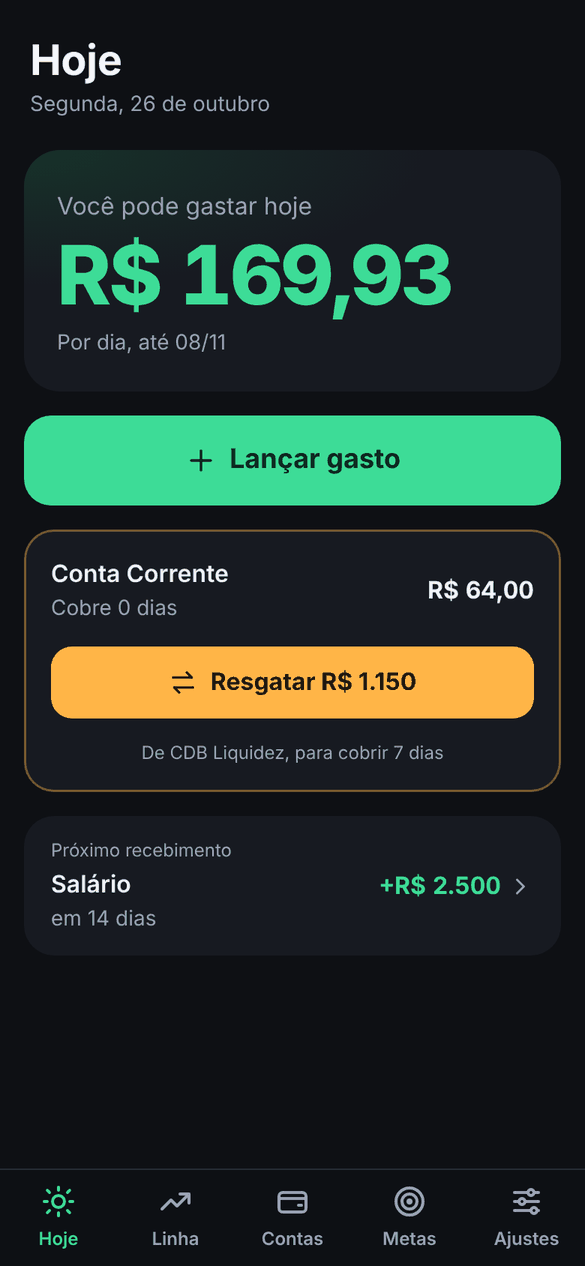
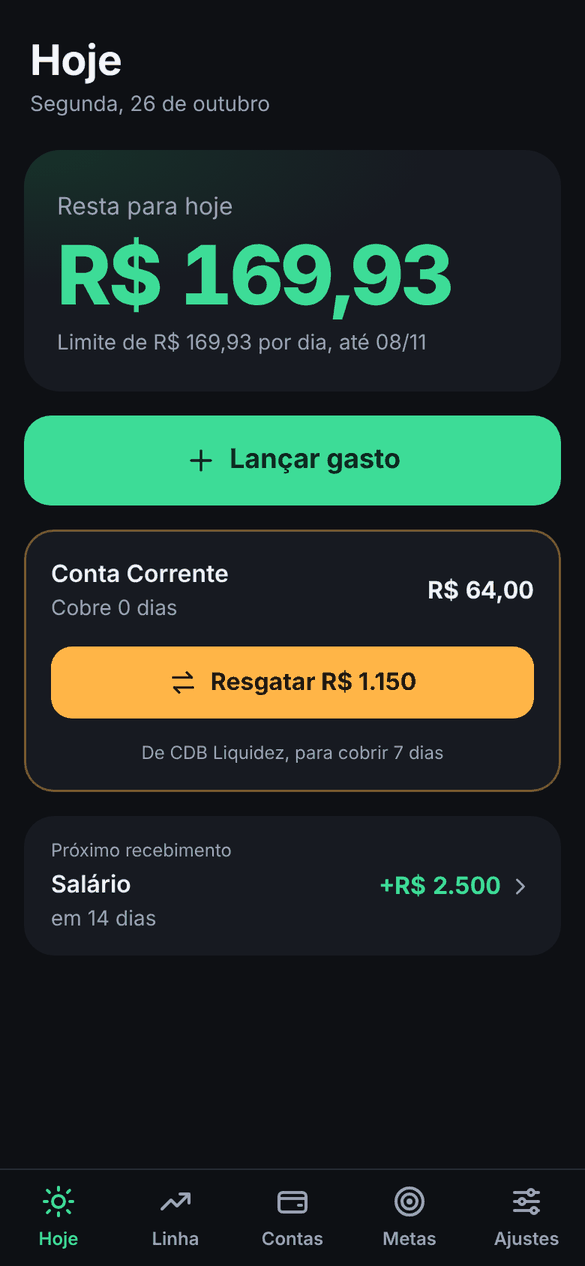
Destaca quanto resta no dia e permite nomear e renomear gastos
- Tela Hoje: o número em destaque passa a ser "Resta para hoje"; o
  limite diário fica logo abaixo. Ao passar do limite, o destaque fica
  vermelho como "Passou do limite hoje".
- Gastos: o campo vira "Nome do gasto", com sugestões dos nomes já
  usados. Tocar num gasto (em Hoje ou nas movimentações) abre uma ficha
  para renomear ou excluir.
- README e capturas atualizados.

Claude-Session: https://claude.ai/code/session_0186iczoG9P2cLLKZmU5Qanj

diff --git a/app/js/ui/screens/today.js b/app/js/ui/screens/today.js
@@ -1,10 +1,10 @@
-import { h, toast, sheet } from '../dom.js';
+import { h } from '../dom.js';
 import { icon } from '../icons.js';
 import * as store from '../../data/store.js';
 import { formatBRL, formatBRLShort } from '../../core/money.js';
 import { formatHeader, formatShort, relative, addDays, TIME_ZONE } from '../../core/dates.js';
 import { openEvents, pendingConfirmations } from '../../core/schedule.js';
-import { confirmOccurrenceSheet, transferSheet, eventSheet } from '../editors.js';
+import { confirmOccurrenceSheet, transferSheet, eventSheet, transactionSheet } from '../editors.js';
 import { backupBanner } from '../backup.js';
 
 const ASK = { income: 'Recebeu?', expense: 'Pagou?', contribution: 'Aportou?' };
@@ -42,20 +42,19 @@ function pendingCard(ctx) {
 function hero(ctx) {
   const { dailyBudget, remainingToday, spentToday, horizonEnd, limitingDay } = ctx.budget;
   const pct = dailyBudget > 0 ? Math.min(100, Math.max(0, (spentToday / dailyBudget) * 100)) : 100;
-  const spent = spentToday > 0;
-  return h('section', { class: 'hero', 'aria-label': 'Orçamento de hoje' },
-    h('p', { class: 'hero-label' }, 'Você pode gastar hoje'),
-    h('p', { class: `hero-value ${dailyBudget < 0 ? 'neg' : ''}`, 'data-fit': true }, formatBRL(dailyBudget)),
-    h('p', { class: 'hero-meta' }, `Por dia, até ${formatShort(horizonEnd)}`),
-    spent && h('div', { class: 'meter', role: 'progressbar', 'aria-label': 'Quanto já gastou hoje', 'aria-valuenow': Math.round(pct), 'aria-valuemin': 0, 'aria-valuemax': 100 },
-      h('span', { style: `width:${pct}%`, class: remainingToday < 0 ? 'over' : '' })),
-    spent && h('div', { class: 'hero-foot' },
-      h('div', {}, h('p', { class: 'k' }, 'Gasto'), h('p', { class: 'v', 'data-fit': true }, formatBRL(spentToday))),
-      h('div', { style: 'text-align:right' },
-        h('p', { class: 'k' }, remainingToday < 0 ? 'Passou' : 'Restante'),
-        h('p', { class: `v ${remainingToday < 0 ? 'neg' : 'pos'}`, 'data-fit': true }, formatBRL(Math.abs(remainingToday))))),
-    dailyBudget < 0 && h('p', { class: 'hero-meta neg', style: 'margin-top:8px' },
-      `As contas até ${formatShort(limitingDay)} passam do que você tem.`));
+  const noRoom = dailyBudget < 0; // as contas já passam do dinheiro disponível
+  const over = !noRoom && remainingToday < 0;
+  const label = noRoom ? 'Sem folga hoje' : over ? 'Passou do limite hoje' : 'Resta para hoje';
+  const value = over ? -remainingToday : remainingToday;
+  return h('section', { class: 'hero', 'aria-label': 'Quanto resta para hoje' },
+    h('p', { class: 'hero-label' }, label),
+    h('p', { class: `hero-value ${noRoom || over ? 'neg' : ''}`, 'data-fit': true }, formatBRL(value)),
+    h('p', { class: 'hero-meta' }, noRoom
+      ? `As contas até ${formatShort(limitingDay)} passam do que você tem.`
+      : `Limite de ${formatBRL(dailyBudget)} por dia, até ${formatShort(horizonEnd)}`),
+    spentToday > 0 && h('div', { class: 'meter', role: 'progressbar', 'aria-label': 'Quanto do limite já foi gasto', 'aria-valuenow': Math.round(pct), 'aria-valuemin': 0, 'aria-valuemax': 100 },
+      h('span', { style: `width:${pct}%`, class: over || noRoom ? 'over' : '' })),
+    spentToday > 0 && h('p', { class: 'hero-meta', style: 'margin-top:8px' }, `${formatBRL(spentToday)} gastos hoje`));
 }
 
 function coverageCard(ctx) {
@@ -100,18 +99,6 @@ function nextIncome(ctx) {
         icon('chevron', { size: 18, cls: 'chev' }))));
 }
 
-function spendSheet(t) {
-  sheet(t.desc || 'Gasto', (close) => [
-    h('p', { class: 'sheet-lead' }, `${formatBRL(t.amount)} às ${timeFmt.format(new Date(t.createdAt))}, de ${store.getAccount(t.from)?.name ?? 'conta excluída'}.`),
-    h('div', { class: 'form-actions' },
-      h('button', { class: 'btn grow', onclick: close }, 'Fechar'),
-      h('button', {
-        class: 'btn danger grow',
-        onclick: () => { store.deleteTransaction(t.id); close(); toast('Gasto excluído'); },
-      }, 'Excluir gasto')),
-  ]);
-}
-
 function todaySpends(ctx) {
   const list = ctx.state.transactions.filter((t) => t.type === 'spend' && t.date === ctx.today).reverse();
   if (!list.length) return null;
@@ -120,9 +107,9 @@ function todaySpends(ctx) {
     h('h2', { class: 'section-label' }, 'Gastos de hoje'),
     h('section', { class: 'card flush' },
       h('ul', { class: 'list' }, list.map((t) => h('li', {},
-        h('button', { class: 'list-item', onclick: () => spendSheet(t) },
+        h('button', { class: 'list-item', onclick: () => transactionSheet(t) },
           h('span', { class: 'li-main' },
-            h('span', { class: 'li-title' }, t.desc || 'Gasto'),
+            h('span', { class: `li-title ${t.desc ? '' : 'muted'}` }, t.desc || 'Sem nome'),
             h('span', { class: 'li-sub' }, [t.createdAt && timeFmt.format(new Date(t.createdAt)), t.from !== def && store.getAccount(t.from)?.name].filter(Boolean).join(', '))),
           h('span', { class: 'li-value' }, formatBRL(t.amount))))))),
   ];

diff --git a/app/js/ui/editors.js b/app/js/ui/editors.js
@@ -5,7 +5,7 @@ import { h, sheet, toast, confirmDialog } from './dom.js';
 import { icon } from './icons.js';
 import * as store from '../data/store.js';
 import { formatBRL, formatBRLShort, parseBRL, toInput } from '../core/money.js';
-import { todayISO, formatFull, formatShort, formatDayMonth, isValidISO, addDays } from '../core/dates.js';
+import { todayISO, formatFull, formatShort, formatDayMonth, isValidISO, addDays, TIME_ZONE } from '../core/dates.js';
 import { MAX_MOVE_DAYS } from '../core/schedule.js';
 
 // ---------- campos ----------
@@ -516,4 +516,52 @@ function pickGoalThenContribution(state) {
   if (state.goals.length === 1) return editContribution(null, state.goals[0].id);
   sheet('Para qual meta?', () => h('ul', { class: 'list' },
     state.goals.map((g) => listItem(g.name, `Até ${formatFull(g.deadline)}`, null, () => editContribution(null, g.id)))));
+}
+
+// ---------- lançamentos: nome, renomear e excluir ----------
+
+export const TX_LABEL = {
+  spend: 'Gasto', transfer: 'Transferência', adjust: 'Ajuste de saldo', income: 'Receita', expense: 'Despesa fixa', contribution: 'Aporte',
+};
+const txTime = new Intl.DateTimeFormat('pt-BR', { hour: '2-digit', minute: '2-digit', timeZone: TIME_ZONE });
+
+/** <datalist> com os nomes de gastos já usados (sugestões ao digitar). */
+export function spendNameList(id) {
+  return h('datalist', { id }, store.recentSpendNames().map((n) => h('option', { value: n })));
+}
+
+/** Ficha de um lançamento: mostra valor e origem, permite renomear e excluir. */
+export function transactionSheet(t) {
+  const label = TX_LABEL[t.type] || 'Lançamento';
+  const isSpend = t.type === 'spend';
+  const listId = 'nomes-gastos-ficha';
+  const name = textInput(t.desc || '', {
+    placeholder: isSpend ? 'Ex.: Mercado, Almoço' : label, maxlength: store.NAME_MAX,
+    list: isSpend ? listId : null, enterkeyhint: 'done', 'data-noautofocus': '1',
+  });
+  const acc = (id) => store.getAccount(id)?.name ?? 'conta excluída';
+  const isMove = t.type === 'transfer' || t.type === 'contribution';
+  const where = isMove ? `de ${acc(t.from)} para ${acc(t.to)}` : t.from ? `de ${acc(t.from)}` : `em ${acc(t.to)}`;
+  const when = `${formatShort(t.date)}${t.createdAt && isSpend ? ` às ${txTime.format(new Date(t.createdAt))}` : ''}`;
+  sheet(t.desc || label, (close) => form(() => {
+    const next = name.value.trim();
+    if (next !== (t.desc || '')) {
+      store.renameTransaction(t.id, next);
+      toast(next ? 'Nome salvo' : 'Nome removido');
+    }
+    close();
+  },
+  h('div', { class: 'stat' },
+    h('span', { class: 'stat-label' }, `${when}, ${where}`),
+    h('span', { class: 'stat-value', style: 'font-size:1.75rem', 'data-fit': true }, formatBRL(Math.abs(t.amount)))),
+  field('Nome', name),
+  isSpend && spendNameList(listId),
+  actions(async () => {
+    const title = isSpend ? 'Excluir gasto?' : 'Excluir movimentação?';
+    const msg = isSpend ? 'O valor volta para o saldo da conta.' : 'Os saldos voltam ao que eram antes dela.';
+    if (await confirmDialog(title, msg, 'Excluir', true)) {
+      store.deleteTransaction(t.id);
+      toast(isSpend ? 'Gasto excluído' : 'Movimentação excluída');
+    }
+  })));
 }

diff --git a/app/js/ui/screens/accounts.js b/app/js/ui/screens/accounts.js
@@ -1,13 +1,9 @@
-import { h, sheet, toast, confirmDialog } from '../dom.js';
+import { h, sheet } from '../dom.js';
 import { icon } from '../icons.js';
 import * as store from '../../data/store.js';
 import { formatBRL } from '../../core/money.js';
 import { formatShort } from '../../core/dates.js';
-import { adjustSheet, transferSheet, addButton, editAccount, listItem } from '../editors.js';
-
-const TYPE_LABEL = {
-  spend: 'Gasto', transfer: 'Transferência', adjust: 'Ajuste de saldo', income: 'Receita', expense: 'Despesa fixa', contribution: 'Aporte',
-};
+import { adjustSheet, transferSheet, addButton, editAccount, listItem, transactionSheet, TX_LABEL } from '../editors.js';
 
 const HISTORY_LIMIT = 40;
 
@@ -40,23 +36,6 @@ function accountList(ctx, accounts) {
       h('span', { class: a.balance < 0 ? 'neg' : '' }, formatBRL(a.balance)), () => accountSheet(ctx, a)))));
 }
 
-function txSheet(t, title, detail) {
-  sheet(title, (close) => [
-    h('p', { class: 'sheet-lead' }, detail),
-    h('div', { class: 'form-actions' },
-      h('button', { class: 'btn grow', onclick: close }, 'Fechar'),
-      h('button', {
-        class: 'btn danger grow',
-        onclick: async () => {
-          if (await confirmDialog('Excluir movimentação?', 'Os saldos voltam ao que eram antes dela.', 'Excluir', true)) {
-            store.deleteTransaction(t.id);
-            toast('Movimentação excluída');
-          }
-        },
-      }, 'Excluir')),
-  ]);
-}
-
 function history(ctx) {
   const txs = [...ctx.state.transactions].reverse().slice(0, HISTORY_LIMIT);
   if (!txs.length) return null;
@@ -67,9 +46,9 @@ function history(ctx) {
       const isMove = t.type === 'transfer' || t.type === 'contribution';
       const credit = t.type === 'adjust' ? t.amount > 0 : !!t.to && !t.from;
       const value = isMove ? formatBRL(t.amount) : `${credit ? '+' : '−'}${formatBRL(Math.abs(t.amount))}`;
-      const title = t.desc || TYPE_LABEL[t.type];
+      const title = t.desc || TX_LABEL[t.type];
       const sub = isMove ? `${formatShort(t.date)}, ${name(t.from)} → ${name(t.to)}` : formatShort(t.date);
-      return h('li', {}, h('button', { class: 'list-item', onclick: () => txSheet(t, title, `${value} em ${formatShort(t.date)}. ${isMove ? `${name(t.from)} → ${name(t.to)}` : name(t.from || t.to)}.`) },
+      return h('li', {}, h('button', { class: 'list-item', onclick: () => transactionSheet(t) },
         h('span', { class: 'li-main' }, h('span', { class: 'li-title' }, title), h('span', { class: 'li-sub' }, sub)),
         h('span', { class: `li-value ${credit && !isMove ? 'pos' : ''}` }, value)));
     }))),

diff --git a/app/js/ui/screens/spend.js b/app/js/ui/screens/spend.js
@@ -1,4 +1,4 @@
-// Lançar gasto: teclado numérico grande, só o valor (descrição opcional).
+// Lançar gasto: teclado numérico grande, só o valor (nome opcional).
 
 import { h, toast, sheet, fitText } from '../dom.js';
 import { icon } from '../icons.js';
@@ -8,6 +8,7 @@ import { computeDailyBudget } from '../../core/budget.js';
 import { suggestRefill } from '../../core/refill.js';
 import { todayISO } from '../../core/dates.js';
 import { refillSheet } from './today.js';
+import { spendNameList } from '../editors.js';
 
 const MAX_DIGITS = 9;
 
@@ -38,7 +39,10 @@ export function renderSpend(ctx) {
 
   const display = h('p', { class: 'amount-display', 'aria-live': 'polite', 'data-fit': true });
   const hint = h('p', { class: 'amount-hint' });
-  const desc = h('input', { type: 'text', placeholder: 'Descrição (opcional)', maxlength: 60, autocomplete: 'off', 'aria-label': 'Descrição' });
+  const desc = h('input', {
+    type: 'text', placeholder: 'Nome do gasto (opcional)', maxlength: store.NAME_MAX, autocomplete: 'off',
+    autocapitalize: 'sentences', enterkeyhint: 'done', list: 'nomes-gastos', 'aria-label': 'Nome do gasto',
+  });
   const confirmBtn = h('button', { class: 'btn primary xl block', disabled: true, onclick: save });
 
   const cents = () => {
@@ -55,7 +59,7 @@ export function renderSpend(ctx) {
     confirmBtn.textContent = v > 0 ? `Lançar ${formatBRL(v)}` : 'Digite o valor';
     const left = ctx.budget.remainingToday - v;
     hint.textContent = v === 0
-      ? `Restante hoje: ${formatBRL(ctx.budget.remainingToday)}`
+      ? `Resta para hoje: ${formatBRL(ctx.budget.remainingToday)}`
       : left >= 0 ? `Sobram ${formatBRL(left)} hoje` : `Passa ${formatBRL(-left)} do limite de hoje`;
     hint.classList.toggle('neg', v > 0 && left < 0);
     if (display.isConnected) fitText(display.parentElement);
@@ -124,7 +128,8 @@ export function renderSpend(ctx) {
     h('div', { class: 'amount-area' }, display, hint),
     h('div', { class: 'spend-opts' },
       chips && h('div', { class: 'row gap' }, h('span', { class: 'chips-label' }, 'Sai de'), chips),
-      desc),
+      desc,
+      spendNameList('nomes-gastos')),
     pad,
     confirmBtn);
 }

diff --git a/tests/store.test.js b/tests/store.test.js
@@ -1,0 +1,53 @@
+import { test, beforeEach } from 'node:test';
+import assert from 'node:assert/strict';
+import { scenario } from './fixtures.js';
+
+// localStorage mínimo para a store rodar no Node
+const mem = new Map();
+globalThis.localStorage = {
+  getItem: (k) => (mem.has(k) ? mem.get(k) : null),
+  setItem: (k, v) => mem.set(k, String(v)),
+  removeItem: (k) => mem.delete(k),
+};
+const store = await import('../app/js/data/store.js');
+
+beforeEach(() => {
+  mem.clear();
+  mem.set('hoje:v1', JSON.stringify(scenario()));
+  store.load();
+});
+
+test('gasto pode ser lançado com nome e renomeado depois', () => {
+  const t = store.addSpend(4590, 'Mercadu');
+  store.renameTransaction(t.id, '  Mercado  ');
+  assert.equal(store.getState().transactions.find((x) => x.id === t.id).desc, 'Mercado');
+  // salvo no aparelho
+  assert.equal(JSON.parse(mem.get('hoje:v1')).transactions[0].desc, 'Mercado');
+});
+
+test('nome vazio remove o nome; nome longo é cortado', () => {
+  const t = store.addSpend(1000, 'Café');
+  store.renameTransaction(t.id, '   ');
+  assert.equal(store.getState().transactions[0].desc, '');
+  store.renameTransaction(t.id, 'x'.repeat(100));
+  assert.equal(store.getState().transactions[0].desc.length, store.NAME_MAX);
+});
+
+test('renomear não mexe em valores nem saldos', () => {
+  const before = store.getState().accounts.map((a) => a.balance);
+  const t = store.addSpend(2500, '');
+  const after = store.getState().accounts.map((a) => a.balance);
+  store.renameTransaction(t.id, 'Padaria');
+  assert.deepEqual(store.getState().accounts.map((a) => a.balance), after);
+  assert.notDeepEqual(after, before);
+  assert.equal(store.getState().transactions[0].amount, 2500);
+});
+
+test('sugestões: nomes de gastos recentes, sem repetir e sem outros lançamentos', () => {
+  store.addSpend(100, 'Café');
+  store.addSpend(200, 'Mercado');
+  store.addSpend(300, 'café');
+  store.addSpend(400, '');
+  store.transfer('cdb', 'cc', 5000, 'Resgate');
+  assert.deepEqual(store.recentSpendNames(), ['café', 'Mercado']);
+});

diff --git a/app/js/data/store.js b/app/js/data/store.js
@@ -172,6 +172,28 @@ export function skipOccurrence(event) {
   commit((s) => { s.settled[event.key] = { date: todayISO(), amount: 0, skipped: true }; });
 }
 
+export const NAME_MAX = 60;
+
+/** Dá ou troca o nome de um lançamento (vazio remove o nome). */
+export function renameTransaction(id, name) {
+  commit((s) => {
+    const t = s.transactions.find((x) => x.id === id);
+    if (t) t.desc = String(name || '').trim().slice(0, NAME_MAX);
+  });
+}
+
+/** Nomes de gastos mais recentes, sem repetir, para sugerir ao digitar. */
+export function recentSpendNames(limit = 20) {
+  const seen = new Set();
+  const out = [];
+  for (let i = state.transactions.length - 1; i >= 0 && out.length < limit; i--) {
+    const t = state.transactions[i];
+    const name = t.type === 'spend' && t.desc?.trim();
+    if (name && !seen.has(name.toLowerCase())) { seen.add(name.toLowerCase()); out.push(name); }
+  }
+  return out;
+}
+
 export function deleteTransaction(id) {
   return commit((s) => revertTransaction(s, id));
 }

diff --git a/app/css/app.css b/app/css/app.css
@@ -464,3 +464,6 @@ html, body, .main { overflow-x: clip; }
   .key { min-height: 50px; font-size: 1.45rem; }
   .spend .btn.xl { min-height: 52px; }
 }
+
+/* campo de nome com sugestões: sem a seta de lista (parece um seletor no Android) */
+input[list]::-webkit-calendar-picker-indicator { display: none !important; }

diff --git a/app/sw.js b/app/sw.js
@@ -1,7 +1,7 @@
 // Service worker: cache-first para os arquivos do app (funciona 100% offline
 // depois da primeira visita). Ao publicar mudanças, aumente CACHE_VERSION.
 
-const CACHE_VERSION = '1.4.2';
+const CACHE_VERSION = '1.5.0';
 const CACHE = `hoje-${CACHE_VERSION}`;
 
 const APP_FILES = [

diff --git a/app/js/version.js b/app/js/version.js
@@ -1,2 +1,2 @@
 // Mantenha igual a CACHE_VERSION em sw.js ao publicar uma nova versão.
-export const APP_VERSION = '1.4.2';
+export const APP_VERSION = '1.5.0';

diff --git a/README.md b/README.md
@@ -11,7 +11,7 @@ PWA de finanças pessoais com orçamento diário dinâmico, offline e com backup
 </div>
 
 <p align="center">
-  <img src="docs/screenshots/hoje.png" alt="Tela Hoje com o limite do dia e a sugestão de resgate" width="22%">
+  <img src="docs/screenshots/hoje.png" alt="Tela Hoje com quanto resta para o dia e a sugestão de resgate" width="22%">
   <img src="docs/screenshots/novo-gasto.png" alt="Teclado numérico para lançar um gasto" width="22%">
   <img src="docs/screenshots/linha-do-tempo.png" alt="Gráfico do saldo projetado e próximos eventos" width="22%">
   <img src="docs/screenshots/metas.png" alt="Meta com progresso e aporte planejado" width="22%">
@@ -49,8 +49,8 @@ O app foi feito para uso com uma mão no celular: um número grande, um botão p
 
 ## Funcionalidades
 
-- **Limite do dia:** o valor que pode ser gasto hoje sem faltar dinheiro até a véspera do próximo salário. Gastos de hoje mostram o restante; no dia seguinte, sobras e excessos se redistribuem.
-- **Lançamento rápido:** teclado numérico, só o valor; descrição e conta são opcionais.
+- **Quanto resta hoje:** o número em destaque é o que ainda pode ser gasto hoje. Logo abaixo aparece o limite diário, calculado para não faltar dinheiro até a véspera do próximo salário. No dia seguinte, sobras e excessos se redistribuem.
+- **Lançamento rápido:** teclado numérico, só o valor; nome e conta são opcionais. O nome sugere os já usados e pode ser trocado depois, tocando no gasto.
 - **Resgates planejados:** mostra quantos dias o saldo da conta de gastos cobre e sugere quanto resgatar da reserva (por exemplo, um CDB de liquidez diária), arredondado e limitado ao saldo disponível. Também sugere aplicar o excedente quando sobra dinheiro.
 - **Receitas recorrentes:** dia fixo ou Nº dia útil do mês, com feriados nacionais (Sexta-feira Santa calculada pela Páscoa), opção de contar sábado e valor diferente em meses específicos.
 - **Confirmação de entradas e saídas:** receitas, contas e aportes só mexem no saldo quando você confirma. Dá para confirmar antes da data, mudar a data de uma ocorrência ou marcar que não aconteceu.
@@ -158,7 +158,7 @@ O service worker funciona em `localhost` sem HTTPS. O comando `npm start` serve 
 npm test
 ```
 
-São 56 testes com o executor nativo do Node, sem dependências externas.
+São 60 testes com o executor nativo do Node, sem dependências externas.
 
 | Arquivo | Cobertura |
 |---|---|
@@ -167,6 +167,7 @@ São 56 testes com o executor nativo do Node, sem dependências externas.
 | `tests/businessDays.test.js` | Páscoa, feriados nacionais, Nº dia útil, regra do sábado e datas sem erro de fuso |
 | `tests/schedule.test.js` | Recorrências, pendências e ocorrências com data mudada |
 | `tests/money.test.js` | Leitura e formatação de valores em pt-BR |
+| `tests/store.test.js` | Nome e renomeação de gastos, sugestões de nomes |
 | `tests/vault.test.js` | Código de recuperação, derivação de chaves, cifra e adulteração |
 | `tests/sync-core.test.js` | API do backup: revisões, conflitos, corrida entre aparelhos e validação |
 
